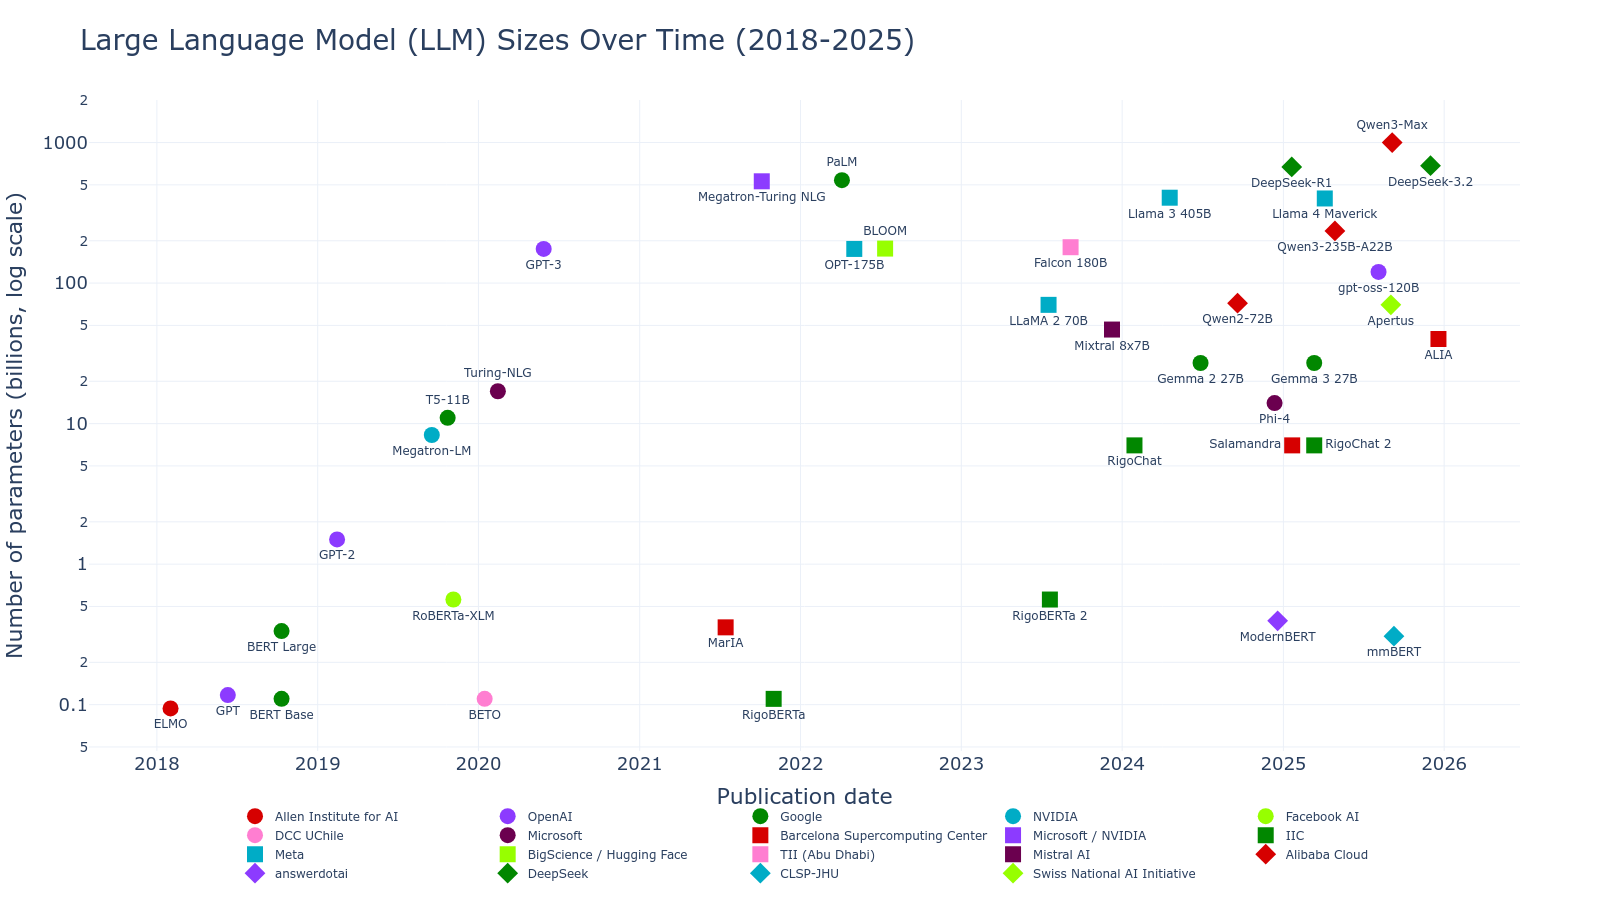
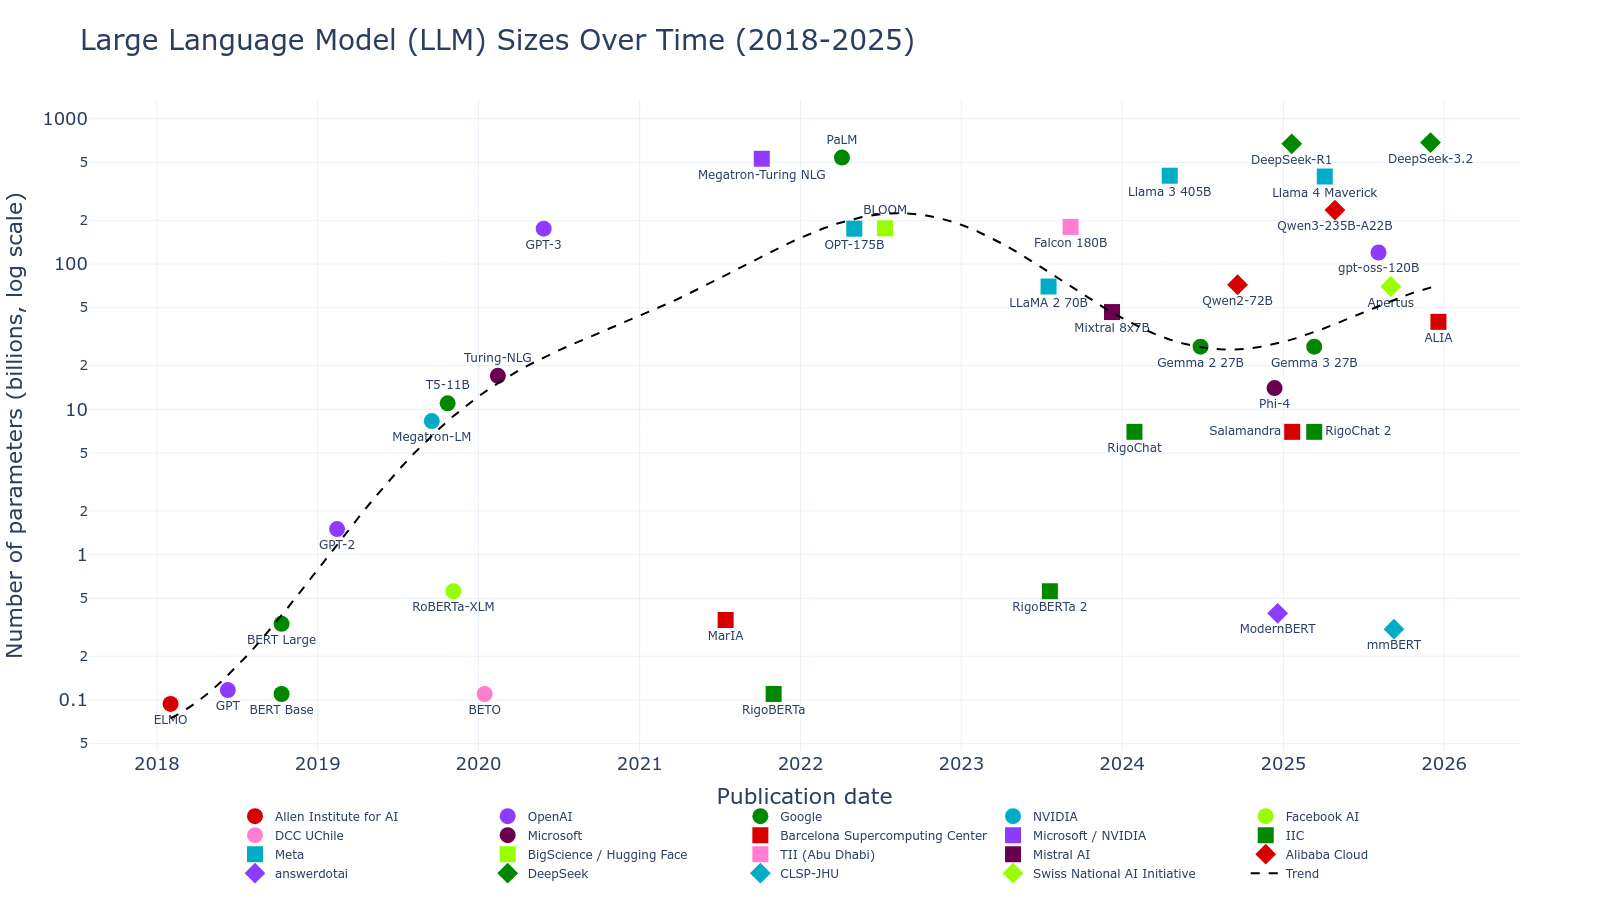
Added basic trend line, removed Qwen-Max (uncertain parameters)

diff --git a/plot.py b/plot.py
@@ -1,6 +1,10 @@
 import colorcet as cc
+import numpy as np
 import pandas as pd
 import plotly.graph_objects as go
+
+from sklearn.preprocessing import StandardScaler
+from sklearn.svm import SVR
 
 df = pd.read_csv("llm_sizes.csv")
 
@@ -57,5 +61,23 @@ fig.update_layout(
     xaxis=dict(tickfont=dict(size=18)),
     yaxis=dict(tickfont=dict(size=18))
 )
+
+# Add trend line
+X = df["Date"].map(pd.Timestamp.timestamp).values.reshape(-1, 1)
+scaler = StandardScaler()
+X = scaler.fit_transform(X)
+y = np.log10(df["Size (B)"].astype(float).values)
+svr = SVR(C=1e2).fit(X, y)
+
+X_fit = np.linspace(X.min(), X.max(), 100).reshape(-1, 1)
+y_fit = svr.predict(X_fit)
+
+fig.add_trace(go.Scatter(
+    x=pd.to_datetime(scaler.inverse_transform(X_fit).flatten(), unit="s"),
+    y=10**y_fit,
+    mode="lines",
+    line=dict(color="black", dash="dash"),
+    name="Trend"
+))
 
 fig.write_image("llm_sizes_chart.png", width=1600, height=900)
